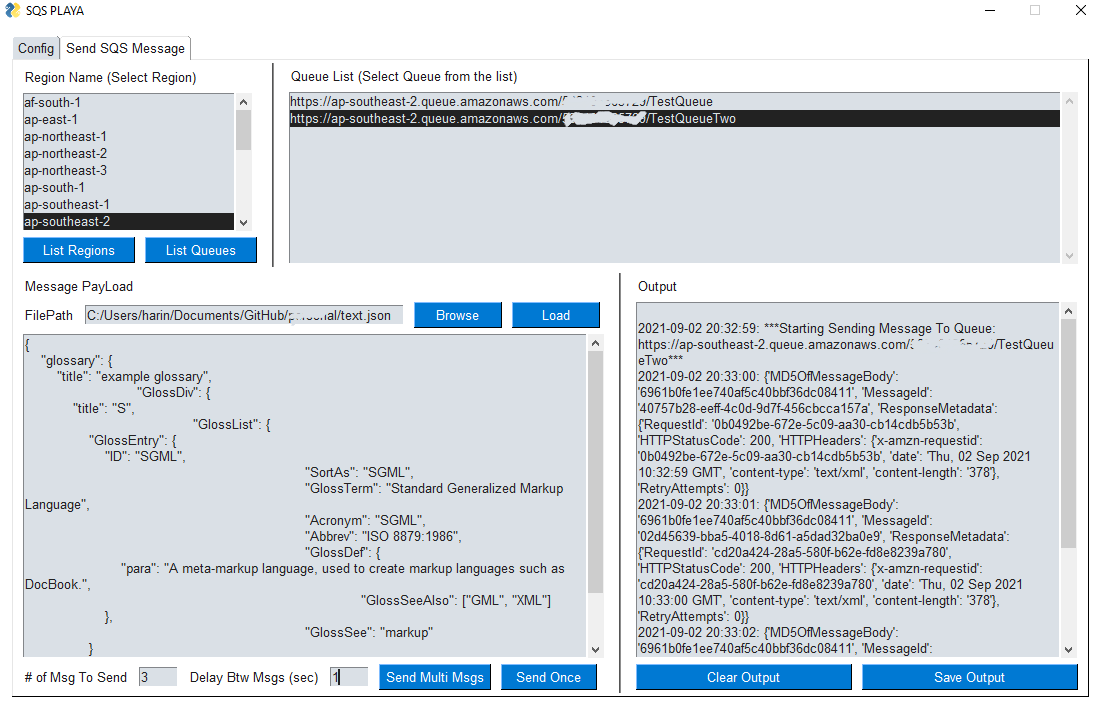
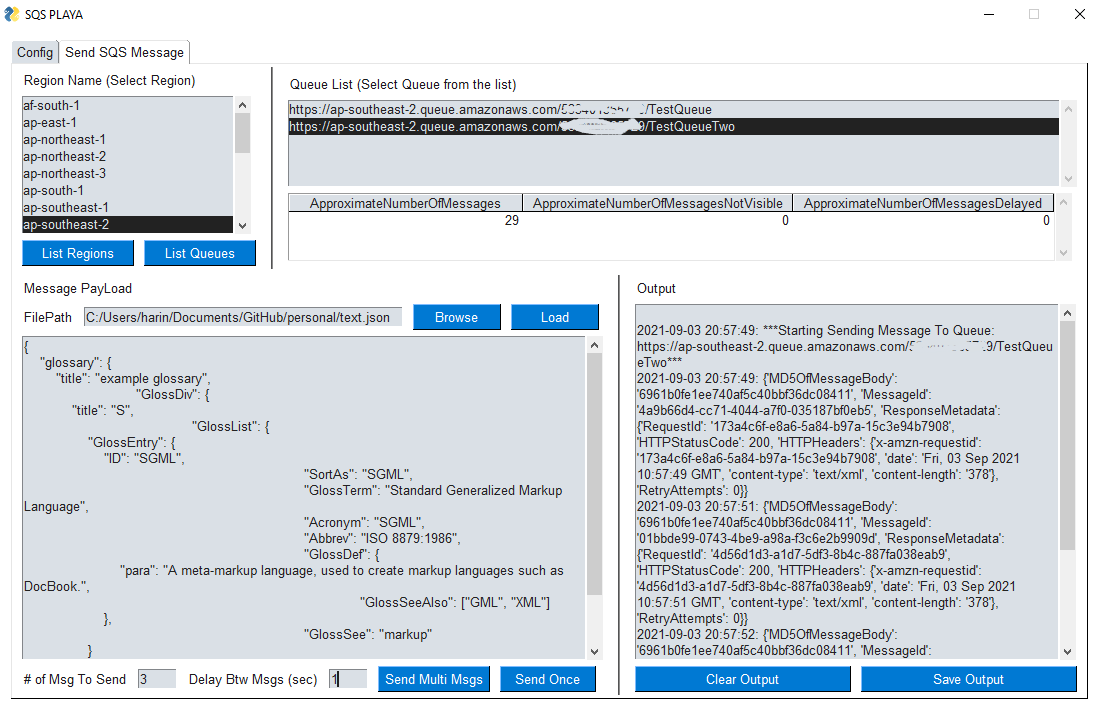
updated sqs workbench

diff --git a/sqs_workbench.py b/sqs_workbench.py
@@ -24,20 +24,22 @@ import datetime
 import time
 
 ic.disable()
-#print = sg.Print
+session = boto3.session.Session()
 
+data=[]
 sg.theme('Reddit')
 
 #-----------------GUI Layout--------------------------------    
 Region = [
          [sg.Text("Region Name (Select Region)")],
-         [sg.Listbox(values=[],enable_events=True,size=(30, 8), key="-REGION-")],
+         [sg.Listbox(values=[],enable_events=True,size=(30, 8), key="-REGION-")], 
          [sg.B("List Regions",size=(13, 1)), sg.B("List Queues",size=(13, 1))]
     ]
 
 Queue_list =[
     [sg.Text("Queue List (Select Queue from the list)")],
-    [sg.Listbox(values=[], enable_events=True, size=(110, 10), key="-QUEUENAME-")]
+    [sg.Listbox(values=[], enable_events=True, size=(110, 5), key="-QUEUENAME-")],
+    [sg.Table(values=data,key="-TABLE-", headings=['ApproximateNumberOfMessages', 'ApproximateNumberOfMessagesNotVisible', 'ApproximateNumberOfMessagesDelayed'],auto_size_columns=False, col_widths=[26, 30, 29],  num_rows=3)]
     ]
 
 Post_message =[
@@ -45,23 +47,28 @@ Post_message =[
     [sg.Text("FilePath"),sg.Input(key='-INPUT-', size=(45, 1)),sg.FileBrowse(file_types=(("Json Files", "*.json"),),size=(10, 1)),sg.B("Load",size=(10, 1))],
     [sg.Multiline(size=(80, 20),key="-QUEUEMSG-")],
     [sg.Text("# of Msg To Send"),sg.In(size=(5, 1),key='-ITERATE-'),
-     sg.Text("Delay Btw Msgs (sec)"),sg.In(size=(5, 1),key='-DELAY-'),sg.B("Run Once",size=(8, 1)),
-     sg.B("Send Msg",size=(8, 1))] #
+     sg.Text("Delay Btw Msgs (sec)"),sg.In(size=(5, 1),key='-DELAY-'),
+     sg.B("Send Multi Msgs",size=(13, 1)),sg.B("Send Once",size=(11, 1))] #
     
     ]
 
 Console =[
     [sg.Text("Output")],
     [sg.Multiline(size=(60, 22),key="-CONSOLEMSG-",disabled=True)],
-    [sg.B("Save Output",size=(20, 1))]
+    [sg.B("Clear Output",size=(26, 1)),sg.B("Save Output",size=(26, 1))]
     ]
+
+Region_buttons =[
+    [sg.B("List Regions",size=(12, 1)), sg.B("List Queues",size=(13, 1))]
+    ]
+
 
 layout = [
 
     [
         sg.Column(Region),
         sg.VSeperator(),
-        sg.Column(Queue_list)],    
+        sg.Column(Queue_list)],      
     [  
         sg.Column(Post_message),
         sg.VSeperator(),
@@ -71,10 +78,10 @@ layout = [
 ]
 
 config =[
-    [sg.Text('NOT IMPLEMENTED YET',size=(30, 2))],
-    [sg.Text('Enter Your AWS Id',size=(30, 2)), sg.InputText(key="-ID-",size=(30, 2))],
-    [sg.Text('Enter Your AWS Key',size=(30, 2)), sg.InputText(key="-KEY-",size=(30, 2))],
-    [sg.Text('Enter Your Default Region',size=(30, 2)), sg.InputText(key="-DEFREGION-",size=(30, 2))]
+    [sg.Text('Enter Your AWS Id',size=(30, 1)), sg.InputText(key="-AWSID-",size=(30, 1))],
+    [sg.Text('Enter Your AWS Key',size=(30, 1)), sg.InputText(key="-AWSKEY-",size=(30, 1))],
+    [sg.Text('Enter Your Default Region',size=(30, 1)), sg.InputText(key="-DEFREGION-",size=(30, 1))],
+    [sg.B("Reset",size=(28, 1)),sg.B("Connect",size=(27, 1))]
     ]
 
 layout2 = [[sg.Column(config)]]
@@ -84,7 +91,7 @@ tabgrp = [[sg.TabGroup([[sg.Tab('Config', layout2, tooltip='Send Message To An S
 #--------------AWS SQS specific Functions--------------------------------------
 
 #get list of all the available queues in a region
-def get_queue_url(REGION_NAME):
+def get_queue_url(REGION_NAME,window):
     
     REGION_CONFIG = Config(
     region_name = REGION_NAME,
@@ -96,9 +103,10 @@ def get_queue_url(REGION_NAME):
   
     queue_list = []
     try:
-        CLIENT = boto3.client('sqs', config=REGION_CONFIG)
+        CLIENT = session.client('sqs', config=REGION_CONFIG)
         response = CLIENT.list_queues()
         if not 'QueueUrls' in response:
+            #window.write_event_value('-WRITE-',"***No Queues available/Check connection detail***")
             return (queue_list)
         else:
             ic(response['QueueUrls'])
@@ -108,6 +116,21 @@ def get_queue_url(REGION_NAME):
             return queue_list
     except Exception as e:
         return(e)
+
+def get_queue_attrib(REGION_NAME, queue_url):
+    REGION_CONFIG = Config(
+    region_name = REGION_NAME,
+    signature_version = 'v4',
+    retries = {
+        'max_attempts': 3
+        }
+    )
+    CLIENT = session.client('sqs', config=REGION_CONFIG)
+    response = CLIENT.get_queue_attributes(
+        QueueUrl=queue_url,
+        AttributeNames=['All']
+    )
+    return response
         
 #Post a message to a queue 
 def send_message(msg, REGION_NAME, queue_url):
@@ -118,7 +141,7 @@ def send_message(msg, REGION_NAME, queue_url):
         'max_attempts': 3
         }
     )
-    CLIENT = boto3.client('sqs', config=REGION_CONFIG)
+    CLIENT = session.client('sqs', config=REGION_CONFIG)
     message = {"test": msg}
     
     ic(message)
@@ -131,8 +154,8 @@ def send_message(msg, REGION_NAME, queue_url):
 
 #get all the AWS regions
 def get_az():
-    s = Session()
-    sqs_region = s.get_available_regions('sqs')
+    #s = Session()
+    sqs_region = session.get_available_regions('sqs')
     return (sqs_region)
 
 #---------------- Threading functions--------------------------------------
@@ -153,7 +176,7 @@ def msg_worker_thread(msg,region_name,queue_name,run_freq,delay, window):
 #-----------------Main function------------------------------------
 def main():
     
-    window = sg.Window('SQS PLAYA', tabgrp) #layout
+    window = sg.Window('SQS WORKBENCH', tabgrp) #layout
     
     REGION_NAME=[]
     region_loop = False
@@ -162,7 +185,36 @@ def main():
         event, values = window.read()
         if event == sg.WIN_CLOSED or event == 'Exit':
             break
+        #---------Connection Tab-----------------------------
+        if event == 'Reset':
+            try:
+                window["-AWSID-"].update("")
+                window["-AWSKEY-"].update("")
+                window["-DEFREGION-"].update("")
+                window["-AWSID-"].SetFocus(force = True)
+            except Exception as e:
+                sg.popup(e)
         
+        if event == 'Connect':
+            try:
+                global session
+                
+                if values['-DEFREGION-'] == "":
+                    sg.popup("Region Field is missing")
+                elif values['-AWSID-'] == "":
+                    sg.popup("AWS ID Field is missing")
+                elif values['-AWSKEY-'] == "":
+                    sg.popup("AWS KEY Field is missing")
+                else:
+                    session = Session(region_name=values['-DEFREGION-'], aws_access_key_id=values['-AWSID-'],
+                                  aws_secret_access_key=values['-AWSKEY-'])
+                #print(session.get_credentials().access_key)
+                #print(session.get_credentials().secret_key)
+                #print(session.region_name)
+            except Exception as e:
+                sg.popup(e)
+        
+        #---------Send SQS Message Tab------------------------
         if event == 'List Regions':
             try:
                 if region_loop == False: #don't refresh list everytime
@@ -177,7 +229,7 @@ def main():
             try:
                 REGION_NAME=values['-REGION-'][0]
                 window["-QUEUENAME-"].update([])
-                url = get_queue_url(REGION_NAME)
+                url = get_queue_url(REGION_NAME,window)
                 if not url:
                     text = window["-CONSOLEMSG-"]
                     window["-CONSOLEMSG-"].update(text.get()+ str(datetime.datetime.now().strftime("%Y-%m-%d %H:%M:%S")) + ": No Queues in this region")
@@ -185,10 +237,31 @@ def main():
                     window["-QUEUENAME-"].update(url)
             except Exception as e:
                 text  = window["-CONSOLEMSG-"]
-                window["-CONSOLEMSG-"].update(text.get()+str(datetime.datetime.now().strftime("%Y-%m-%d %H:%M:%S")) +": "+str(e))
+                window["-CONSOLEMSG-"].update(text.get()+str(datetime.datetime.now().strftime("%Y-%m-%d %H:%M:%S")) +": "+str(e) +" /Check Connection Detail")
         
         if event == '-QUEUENAME-':
-            window.find_element("-QUEUEMSG-").Update(disabled=False)        
+            try:
+                REGION_NAME=values['-REGION-'][0]
+                window.find_element("-QUEUEMSG-").Update(disabled=False)
+                #window.find_element("-TABLE-").Update(disabled=False)
+                data=[]
+                resp = get_queue_attrib(REGION_NAME, values['-QUEUENAME-'][0])
+                data.append([resp['Attributes']['ApproximateNumberOfMessages'],
+                             resp['Attributes']['ApproximateNumberOfMessagesNotVisible'],
+                             resp['Attributes']['ApproximateNumberOfMessagesDelayed']])
+                window["-TABLE-"].update(data)
+            except Exception as e:
+                text  = window["-CONSOLEMSG-"]
+                window["-CONSOLEMSG-"].update(text.get()+str(datetime.datetime.now().strftime("%Y-%m-%d %H:%M:%S")) +": "+str(e))
+                
+            # print(resp['Attributes']['ApproximateNumberOfMessages'])
+            # print(resp['Attributes']['ApproximateNumberOfMessagesNotVisible'])
+            # print(resp['Attributes']['ApproximateNumberOfMessagesDelayed'])
+            # print(resp['Attributes']['LastModifiedTimestamp'])
+            # print(resp['Attributes']['VisibilityTimeout'])
+            # print(resp['Attributes']['CreatedTimestamp'])
+            # print(resp['Attributes']['MaximumMessageSize'])
+            # print(resp['Attributes']['MessageRetentionPeriod'])
         
         if event == '-WRITE-':
             text  = window["-CONSOLEMSG-"]
@@ -205,7 +278,7 @@ def main():
                 except Exception as e:
                     text  = window["-CONSOLEMSG-"]
                     window["-CONSOLEMSG-"].update(text.get()+str(datetime.datetime.now().strftime("%Y-%m-%d %H:%M:%S")) +": "+str(e))
-        if event == 'Send Msg':
+        if event == 'Send Multi Msgs':
             try:
                 counter = int(values['-ITERATE-'])
                 delay = int(values['-DELAY-'])
@@ -217,7 +290,7 @@ def main():
                 text  = window["-CONSOLEMSG-"]
                 window["-CONSOLEMSG-"].update(text.get()+str(datetime.datetime.now().strftime("%Y-%m-%d %H:%M:%S")) +": "+str(e))
         
-        if event == 'Run Once':
+        if event == 'Send Once':
             try:
                 threading.Thread(target=msg_worker_thread, 
                                  args=(values['-QUEUEMSG-'],
@@ -235,6 +308,11 @@ def main():
             file.write(str(window["-CONSOLEMSG-"].get()))
             file.close()
             sg.popup("File Saved")
+        
+        
+        if event == 'Clear Output':
+            text  = ""
+            window["-CONSOLEMSG-"].update(text)
     window.close()
 
 if __name__ == '__main__':
